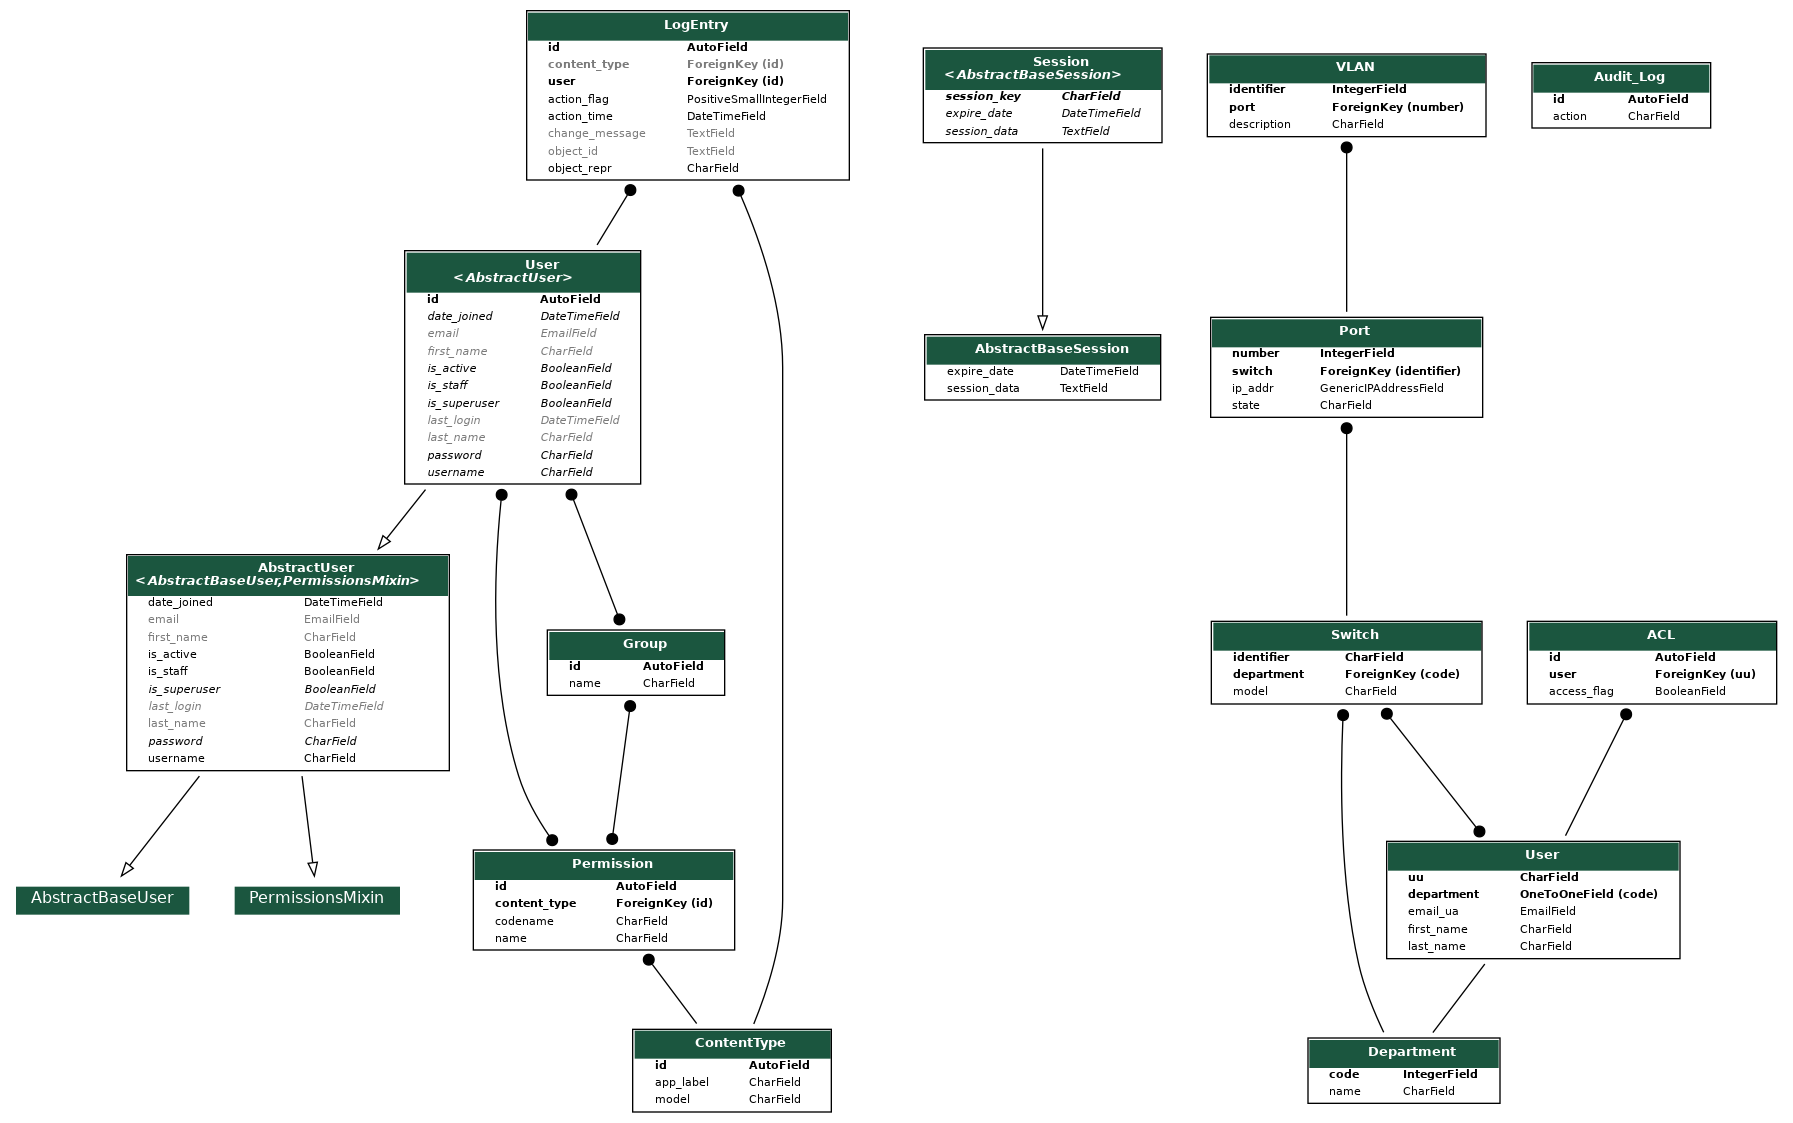
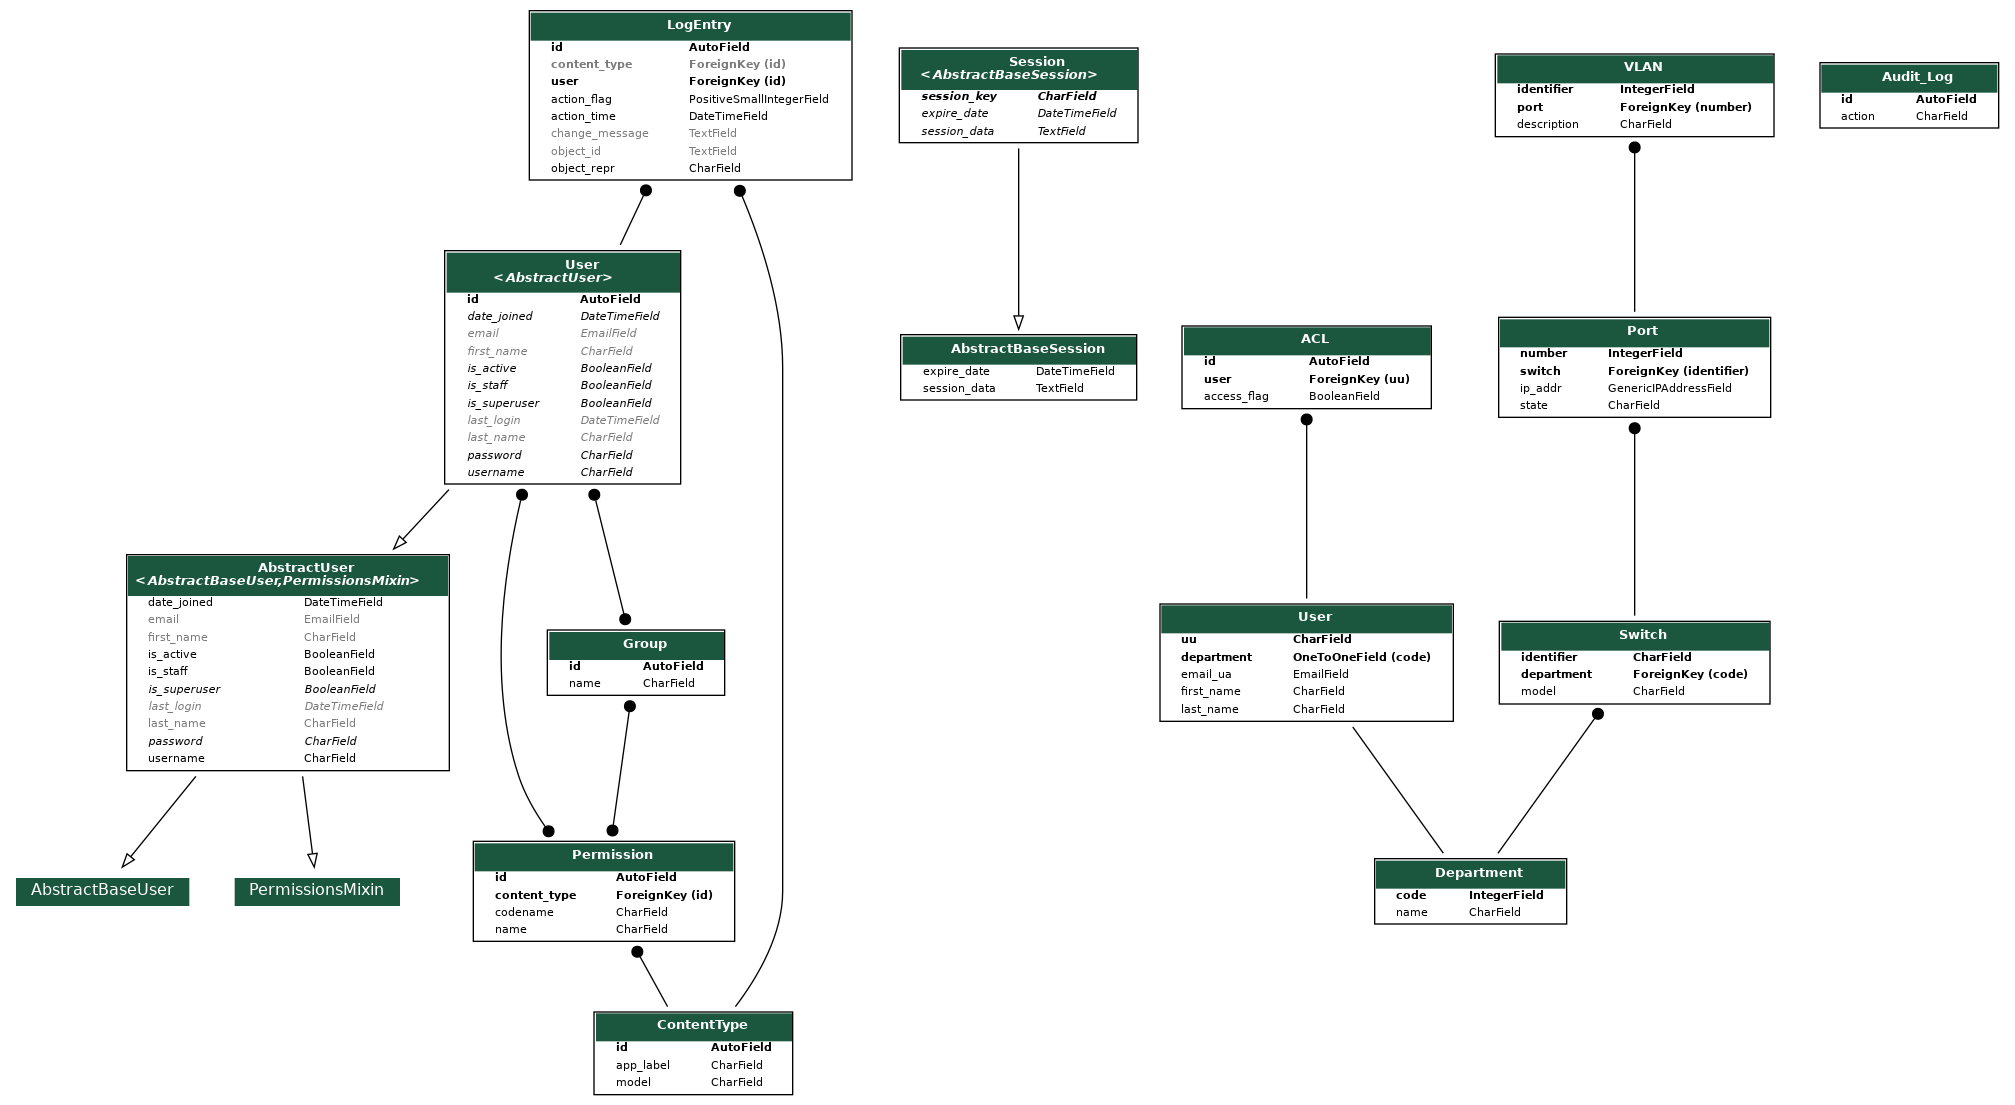
added __str__

diff --git a/ssc_db/ssc_db_app/models.py b/ssc_db/ssc_db_app/models.py
@@ -5,18 +5,27 @@ class Department(models.Model):
     code = models.IntegerField(primary_key=True)
     name = models.CharField(max_length=150)
 
+    def __str__(self):
+        return f"Departamento nº{code}: {name}"
+
 class User(models.Model):
     uu = models.CharField(max_length=100, primary_key=True)
     email_ua = models.EmailField()
     first_name = models.CharField(max_length=100)
     last_name = models.CharField(max_length=100)
     department = models.OneToOneField(Department, on_delete=models.CASCADE) # tenho de adicionar alguma coisa on_delete?
+    
+    def __str__(self):
+        return f"User {uu}, @: {email_ua}, {first_name} {last_name}, dep: {department}"
 
 class Switch(models.Model):
     identifier = models.CharField(max_length=100, primary_key=True)
     model = models.CharField(max_length=100)
     department = models.ForeignKey(Department, on_delete=models.CASCADE)
-    user_acess = models.ManyToManyField(User)
+
+    def __str__(self):
+        return f"Switch {identifier}, {model}, dep: {department}"
+
 
 class Port(models.Model):
     number = models.IntegerField(primary_key=True)
@@ -24,16 +33,30 @@ class Port(models.Model):
     state = models.CharField(max_length=100)
     switch = models.ForeignKey(Switch, on_delete=models.CASCADE) # on_delete?
 
+    def __str__(self):
+        return f"Port {number}, ip: {ip_addr}, state: {state}, from: {switch}"
+
+
 class VLAN(models.Model):
     identifier = models.IntegerField(primary_key=True)
     description = models.CharField(max_length=350)
     port = models.ForeignKey(Port, on_delete=models.CASCADE) # on_delete?
 
+    def __str__(self):
+        return f"VLAN {identifier}, {description}, port: {port}"
+
+
 class ACL(models.Model):
     id = models.AutoField(primary_key=True)
     access_flag = models.BooleanField()
     user = models.ForeignKey(User, on_delete=models.CASCADE)
+    
+    def __str__(self):
+        return f"ACL {id}, ip: {access_flag}, user: {user}"
 
 class Audit_Log(models.Model):
     id = models.AutoField(primary_key=True)
     action = models.CharField(max_length=350)
+
+    def __str__(self):
+        return f"Audit {id}: {action}"

diff --git a/ssc_db/ssc_db_app/migrations/0002_remove_switch_user_acess.py b/ssc_db/ssc_db_app/migrations/0002_remove_switch_user_acess.py
@@ -1,0 +1,17 @@
+# Generated by Django 3.0.5 on 2020-04-04 00:41
+
+from django.db import migrations
+
+
+class Migration(migrations.Migration):
+
+    dependencies = [
+        ('ssc_db_app', '0001_initial'),
+    ]
+
+    operations = [
+        migrations.RemoveField(
+            model_name='switch',
+            name='user_acess',
+        ),
+    ]

diff --git a/README.md b/README.md
@@ -1,1 +1,4 @@
 # database
+
+./manage.py graph_models -a --hide-edge-labels -o db_model.png
+
